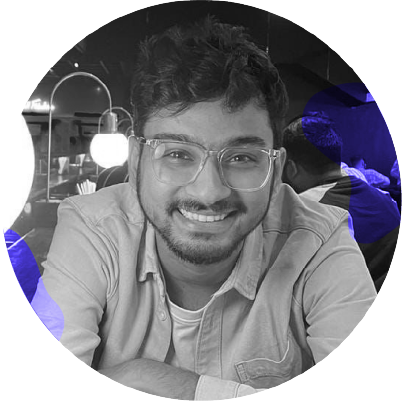
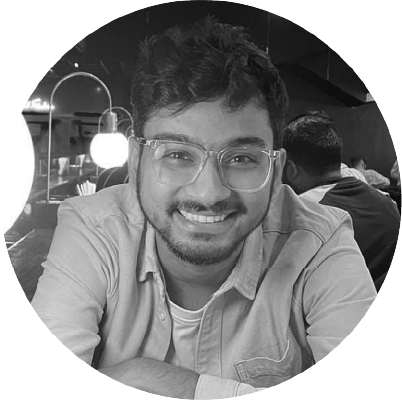
progress

diff --git a/pages/directors/index.js b/pages/directors/index.js
@@ -9,13 +9,66 @@ import Head from "next/head";
 import Footer from "../../components/footer/footer"
 
 function OnBoardItem(props){
+
+    const G_EL_anim = useRef([
+        (<svg width="600" height="600" viewBox="0 0 600 600" className="ExpertItem-blobSvg">
+            <path>
+                <animate attributeName="d" dur="47s" repeatCount="indefinite"
+                    values="M431.3 121.9c22 40.1 11.3 97.5 13.3 146.9 2 49.5 16.6 91.1 4.3 121.8-12.2 30.6-51.3 50.4-88.5 55.1-37.1 4.7-72.4-5.7-108.8-17.1-36.5-11.3-74.1-23.7-104-52-29.9-28.2-52-72.4-48.4-115.4 3.5-43 32.7-84.8 70.5-122.2 37.7-37.3 84-70.2 134.5-75.1 50.4-5 105.1 17.9 127.1 58z;
+                                M404.4 176.7c20.9 16.4 20.8 58.8 38.8 106.2 18.1 47.4 54.4 99.7 40.9 123.6-13.5 23.9-76.7 19.3-131.6 40.4-54.8 21-101.2 67.7-150.5 71.7-49.4 4.1-101.7-34.5-107.8-81.9C88 389.2 128 333 144.2 278c16.2-55.1 8.5-108.8 30.5-125 22-16.1 73.7 5.5 120.4 11.3 46.7 5.9 88.5-3.9 109.3 12.4z;
+            M431.3 121.9c22 40.1 11.3 97.5 13.3 146.9 2 49.5 16.6 91.1 4.3 121.8-12.2 30.6-51.3 50.4-88.5 55.1-37.1 4.7-72.4-5.7-108.8-17.1-36.5-11.3-74.1-23.7-104-52-29.9-28.2-52-72.4-48.4-115.4 3.5-43 32.7-84.8 70.5-122.2 37.7-37.3 84-70.2 134.5-75.1 50.4-5 105.1 17.9 127.1 58z;"
+                    keySplines="0.1 0.8 0.2 1;0.1 0.8 0.2 1" keyTimes="0;0.5;1"></animate>
+            </path>
+        </svg>)
+    ])
+
     return (
         <div className="OnBoard-listItem">
-            <div className="OnBoardDirector-Profile">
-                <picture>
-                    <img className="OnBoardDirector-Image" src={props.imgSrc} alt="" />
-                </picture>
-                <h3 className="OnBoardDirector-Name">{props.name}</h3>
+            <div className="ExpertItem large visible OnBoardDirector-Profile" style={{"--color": props.G_El_prop[0], "--move-duration": props.G_El_prop[1]}}>
+                <div className="ExpertItem-wrapImage" style={{"transform": "translate3d(0px, 0px, 0px)", opacity: 1}}>
+                    <div className="ExpertItem-wrapImageInner">
+                        <div className="AppImage ExpertItem-image loaded lazyload fit-cover"
+                            style={{"--ratio": "0%"}}>
+                            <div className="AppImage-overlay"></div>
+                            <div className="AppImage-placeholder" style={{"background-color": "rgb(127, 128, 127)"}}></div>
+                            <picture>
+                                {/* <source
+                                    data-srcset="https://images.prismic.io/mediakeys/9f278982-0539-4aef-a28a-e4f44a51332a_balmain-jerome-square.jpg?auto=compress%2Cformat&amp;rect=0%2C0%2C2000%2C2000&amp;w=360 360w, https://images.prismic.io/mediakeys/9f278982-0539-4aef-a28a-e4f44a51332a_balmain-jerome-square.jpg?auto=compress%2Cformat&amp;rect=0%2C0%2C2000%2C2000&amp;w=800 800w, https://images.prismic.io/mediakeys/9f278982-0539-4aef-a28a-e4f44a51332a_balmain-jerome-square.jpg?auto=compress%2Cformat&amp;rect=0%2C0%2C2000%2C2000&amp;w=1000 1000w"
+                                    sizes="(min-width: 768px) 40vw, 100vw"
+                                    srcset="
+                                        https://images.prismic.io/mediakeys/9f278982-0539-4aef-a28a-e4f44a51332a_balmain-jerome-square.jpg?auto=compress%2Cformat&amp;rect=0%2C0%2C2000%2C2000&amp;w=360   360w,
+                                        https://images.prismic.io/mediakeys/9f278982-0539-4aef-a28a-e4f44a51332a_balmain-jerome-square.jpg?auto=compress%2Cformat&amp;rect=0%2C0%2C2000%2C2000&amp;w=800   800w,
+                                        https://images.prismic.io/mediakeys/9f278982-0539-4aef-a28a-e4f44a51332a_balmain-jerome-square.jpg?auto=compress%2Cformat&amp;rect=0%2C0%2C2000%2C2000&amp;w=1000 1000w
+                                    " /> */}
+                                <img draggable="false"
+                                    // data-src="https://images.prismic.io/mediakeys/9f278982-0539-4aef-a28a-e4f44a51332a_balmain-jerome-square.jpg?auto=compress,format&amp;rect=0,0,2000,2000&amp;w=768&amp;h=768"
+                                    alt={props.name} className="AppImage-image"
+                                    style={{"object-fit": "cover", "object-position": "center center"}}
+                                    src={props.imgSrc} />
+                            </picture>
+                        </div>
+                        <svg xmlns="http://www.w3.org/2000/svg" version="1.1">
+                            <defs>
+                                <filter id="fancy-goo">
+                                    <feGaussianBlur in="SourceGraphic" stdDeviation="10" result="blur">
+                                    </feGaussianBlur>
+                                    <feColorMatrix in="blur" mode="matrix"
+                                        values="1 0 0 0 0  0 1 0 0 0  0 0 1 0 0  0 0 0 19 -9" result="goo"></feColorMatrix>
+                                </filter>
+                            </defs>
+                        </svg>
+                        <div className="ExpertItem-blob"
+                            style={{"transform": props.G_El_prop[2]}}>
+                            {G_EL_anim.current[0]}
+                        </div>
+                    </div>
+                </div>
+                <div className="ExpertItem-content">
+                    <div className="ExpertItem-title app-text--regular"
+                        style={{opacity: 1, transform: "translate3d(0px, 0px, 0px)"}}>
+                        {props.name}
+                    </div>
+                </div>
             </div>
             <div className="OnBoardDirector-About">
                 <p>{props.about}</p>
@@ -24,34 +77,7 @@ function OnBoardItem(props){
 )
 }
 
-// function OtherDirectorItem(props){
-//     return (
-//         <div className="OtherDirectors-ListItem">
-//             <picture>
-//                 <img className="OtherDirectors-Image" src={props.imgSrc} alt="" />
-//             </picture>
-//             <h3 className="OtherDirectors-Name">{props.name}</h3>
-//             <span>{props.about}</span>
-//         </div>
-//     )
-// }
-
-
 export default function Directors(){
-
-    // Other Directors
-    // const profiles = [
-    //                     ["./assets/team_profiles/srushti_iyer.JPG", "Shruti Iyer"],
-    //                     ["./assets/team_profiles/nidhi_gandhi.jpg", "Nidhi Gandhi"],
-    //                     ["./assets/team_profiles/natasha_agarwal_jagtap.jpg", "Natasha Agarwal Jagtap"],
-    //                     ["./assets/team_profiles/nadeem_shaikh_.jpg", "Nadeem Shaikh"],
-    //                     ["./assets/team_profiles/manish_chougule.jpg", "Manish Chougule"],
-    //                     ["./assets/team_profiles/ishaandeep_awasty.JPEG", "Ishaandeep Awasty"],
-    //                     ["./assets/team_profiles/inigo_nadar.jpg", "Inigo Nadar"],
-    //                     ["./assets/team_profiles/gaurav_gandhi.jpg", "Gaurav Gandhi"],
-    //                     ["./assets/team_profiles/anindita_mukherjee.jpg", "Anindita Mukherjee"],
-    //                     ["./assets/team_profiles/a_aakash_rao.jpg", "A Aakash Rao"],
-    //                 ]
 
     return (
         <div className="Directors-page" data-scroll-container>
@@ -66,16 +92,19 @@ export default function Directors(){
                         <OnBoardItem
                             imgSrc = "./assets/prosit_roy.png"
                             name = "Prosit Roy"
+                            G_El_prop = {["#5541f8", "47s", "translate3d(calc(-10 * 0.69 * 1vw), calc(-10 * 0.69 * 1vw), 0px) rotate(1deg)"]}
                             about = {<>The king of nuances and backstories.<br/><br/>One of the main reasons Prosit&apos;s work is identifiable as his own is due to his ability to get to the root of every story, deep-diving into cultures and making the characters memorable and relatable.<br/><br/>He internalizes the script and beautifully decodes it on screen. Whether it is Patal Lok or a Pampers advertisement, Prosit has the expertise to evoke emotion from all audiences.<br/><br/>He&apos;s the most incredible support system for a team but an even better Director.</>}
                         />
                         <OnBoardItem
                             imgSrc = "./assets/jeet.png"
                             name = "Jeet Lotia"
+                            G_El_prop = {["#af37d9", "43s", "translate3d(calc(10 * 0.69 * 1vw), calc(-10 * 0.69 * 1vw), 0px) rotate(1deg)"]}
                             about = {<>One that brings words to life.<br/>Our resident magician.<br/><br/>The sheer ease with which Jeet can tell a story off-screen translates directly to his work on screen with an innate ability to bring out the desired emotion impactfully.<br/><br/>An ad film director who&apos;s worked on over 150 commercials in the last seven years and earned all his tricks on-set, somewhere between reel life and real life<br/><br/>Jeet is a dire cinema addict obsessed with doing justice to every script.</>}
                         />
                         <OnBoardItem
-                            imgSrc = "./assets/thea.jpeg"
+                            imgSrc = "./assets/thea.png"
                             name = "Teodora Chingarova"
+                            G_El_prop = {["#f2ad45", "44s", "translate3d(calc(-10 * 0.69 * 1vw), calc(10 * 0.69 * 1vw), 0px) rotate(100deg)"]}
                             about = {<>The one that wore many hats until she tried on the director one, and never let that go.<br/><br/>With a foundation that required her to relocate constantly, Thea has the infinite ability to organize chaos and has mastered the art of understanding complex human emotions, which makes her dazzle brilliantly as a director. <br/><br/>In her quest to bring her favorite three weapons - music, words, and visuals together, Thea has conquered the craftwork of imagination and pulling references for everything!</>}
                         />
 

diff --git a/styles/style.css b/styles/style.css
@@ -1173,7 +1173,7 @@ section.homeHeadSection {
     top: 100%;
     width: 100%;
 
-    margin-top: 0.5vw;
+    /* margin-top: 0.5vw; */
 }
 
 .Works-slideSubtitle{
@@ -3478,5 +3478,187 @@ button.FormButton .AppButton-label{
 		border-radius: calc(1vw * 1.2 * 2.677/0.69);
 
 		margin-bottom: calc(1vw * 0.5 * 2.677/0.69);
+	}
+}
+
+/* Directors page ExpertItem */
+
+
+.ExpertItem-wrapImage {
+    width: calc(30 * 0.69 * 1vw);
+    height: calc(30 * 0.69 * 1vw);
+}
+
+.ExpertItem-wrapImage {
+    position: relative;
+    overflow: hidden;
+    border-radius: 100%;
+    margin-bottom: 0;
+    margin-left: auto;
+    margin-right: auto;
+    box-sizing: content-box;
+    transform: tZ(0);
+    background: #050505;
+}
+
+.ExpertItem-wrapImageInner {
+    position: absolute;
+    bottom: 0;
+    left: 0;
+    right: 0;
+    top: 0;
+    margin: auto;
+    width: 100%;
+    height: 100%;
+    isolation: isolate;
+}
+
+.ExpertItem-image {
+    position: absolute;
+    bottom: 0;
+    left: 0;
+    right: 0;
+    top: 0;
+    margin: auto;
+    width: 100%;
+    height: 100%;
+    mix-blend-mode: overlay;
+    z-index: 2;
+}
+
+.AppImage-overlay:after {
+    content: "";
+    display: block;
+    background: #5541f8;
+    left: 100%;
+}
+
+.ExpertItem-image .AppImage-overlay{
+	opacity: 0;
+}
+
+.ExpertItem.large .ExpertItem-blob {
+    width: calc(40 * 0.69 * 1vw);
+    height: calc(40 * 0.69 * 1vw);
+    margin-top: calc(-20 * 0.69 * 1vw);
+    margin-left: calc(-20 * 0.69 * 1vw);
+}
+
+.ExpertItem-blobSvg {
+    position: absolute;
+    bottom: 0;
+    left: 0;
+    right: 0;
+    top: 0;
+    margin: auto;
+    width: 100%;
+    height: 100%;
+    fill: var(--color);
+    transform-origin: 50% 50%;
+}
+@-webkit-keyframes move-data-v-132379df {
+	0% {
+	  transform: scale(1) translateZ(0) rotate(0);
+	  -webkit-animation-timing-function: cubic-bezier(0.455, 0.03, 0.515, 0.955);
+	  animation-timing-function: cubic-bezier(0.455, 0.03, 0.515, 0.955);
+	}
+	25% {
+	  transform: scale(0.8) translateZ(0) rotate(55deg);
+	  -webkit-animation-timing-function: cubic-bezier(0.455, 0.03, 0.515, 0.955);
+	  animation-timing-function: cubic-bezier(0.455, 0.03, 0.515, 0.955);
+	}
+	50% {
+	  transform: scale(0.6) translateZ(0) rotate(20deg);
+	  -webkit-animation-timing-function: cubic-bezier(0.455, 0.03, 0.515, 0.955);
+	  animation-timing-function: cubic-bezier(0.455, 0.03, 0.515, 0.955);
+	}
+	75% {
+	  transform: scale(0.8) translateZ(0) rotate(35deg);
+	  -webkit-animation-timing-function: cubic-bezier(0.455, 0.03, 0.515, 0.955);
+	  animation-timing-function: cubic-bezier(0.455, 0.03, 0.515, 0.955);
+	}
+	to {
+	  transform: scale(1) translateZ(0) rotate(0);
+	  -webkit-animation-timing-function: cubic-bezier(0.455, 0.03, 0.515, 0.955);
+	  animation-timing-function: cubic-bezier(0.455, 0.03, 0.515, 0.955);
+	}
+}
+@keyframes move-data-v-132379df {
+	0% {
+	  transform: scale(1) translateZ(0) rotate(0);
+	  -webkit-animation-timing-function: cubic-bezier(0.455, 0.03, 0.515, 0.955);
+	  animation-timing-function: cubic-bezier(0.455, 0.03, 0.515, 0.955);
+	}
+	25% {
+	  transform: scale(0.8) translateZ(0) rotate(55deg);
+	  -webkit-animation-timing-function: cubic-bezier(0.455, 0.03, 0.515, 0.955);
+	  animation-timing-function: cubic-bezier(0.455, 0.03, 0.515, 0.955);
+	}
+	50% {
+	  transform: scale(0.6) translateZ(0) rotate(20deg);
+	  -webkit-animation-timing-function: cubic-bezier(0.455, 0.03, 0.515, 0.955);
+	  animation-timing-function: cubic-bezier(0.455, 0.03, 0.515, 0.955);
+	}
+	75% {
+	  transform: scale(0.8) translateZ(0) rotate(35deg);
+	  -webkit-animation-timing-function: cubic-bezier(0.455, 0.03, 0.515, 0.955);
+	  animation-timing-function: cubic-bezier(0.455, 0.03, 0.515, 0.955);
+	}
+	to {
+	  transform: scale(1) translateZ(0) rotate(0);
+	  -webkit-animation-timing-function: cubic-bezier(0.455, 0.03, 0.515, 0.955);
+	  animation-timing-function: cubic-bezier(0.455, 0.03, 0.515, 0.955);
+	}
+}
+
+.ExpertItem-blob {
+    position: absolute;
+    top: 0;
+    left: 0;
+    left: 50%;
+    top: 50%;
+    opacity: .5;
+    z-index: 1;
+}
+
+.ExpertItem.visible .ExpertItem-blobSvg {
+    -webkit-animation: move-data-v-132379df var(--move-duration) linear infinite;
+    animation: move-data-v-132379df var(--move-duration) linear infinite;
+}
+
+.AppImage-placeholder {
+    position: absolute;
+    width: 100%;
+    height: 100%;
+}
+
+.ExpertItem {
+    display: inline-block;
+    position: relative;
+}
+
+.ExpertItem-content {
+    text-align: center;
+}
+.ExpertItem-content {
+    position: relative;
+    z-index: 10;
+    margin-top: calc(1 * 0.69 * 1vw);
+}
+
+.ExpertItem-title {
+    line-height: calc(3.4 * 0.69 * 1vw);
+    margin-bottom: calc(1 * 0.69 * 1vw);
+}
+
+.app-text--regular {
+    font-size: calc(2.4 * 0.69 * 1vw);
+    line-height: calc(3.6 * 0.69 * 1vw);
+}
+
+@media only screen and (min-width: 1024px){
+	.app-text--regular {
+		font-size: calc(3.2 * 0.69 * 1vw);
+		line-height: calc(4.8 * 0.69 * 1vw);
 	}
 }

diff --git a/pages/team/index.js b/pages/team/index.js
@@ -28,6 +28,7 @@ export default function Team(){
 
     const profiles = [
         ["./assets/team_profiles/gaurav_gandhi.jpg", "Gaurav Gandhi", "Executive Producer"],
+        ["./assets/team_profiles/smaran_gandhi.JPG", "Smaran Gandhi", "Executive Producer"],
         ["./assets/team_profiles/srushti_iyer.JPG", "Shruti Iyer", "Senior Producer"],
         ["./assets/team_profiles/nidhi_gandhi.jpg", "Nidhi Gandhi", "Senior Producer"],
         ["./assets/team_profiles/ishaandeep_awasty.JPEG", "Ishaandeep Awasty", "Producer"],
@@ -110,6 +111,11 @@ export default function Team(){
                                     imgSrc = {profiles[9][0]}
                                     name = {profiles[9][1]}
                                     about = {profiles[9][2]}
+                                />
+                                <OtherDirectorItem
+                                    imgSrc = {profiles[10][0]}
+                                    name = {profiles[10][1]}
+                                    about = {profiles[10][2]}
                                 />
                             </div>
                         </div>

diff --git a/pages/index.js b/pages/index.js
@@ -974,7 +974,7 @@ export default function Home(props) {
 						slidemag="24vw"
 					></Ideasbehindtextitem>
 					<Ideasbehindtextitem
-						label="Print Ads"
+						label="Print"
 						href="/work"
 						color="#f2ad45"
 						// skill="Bringing ideas to focus"
